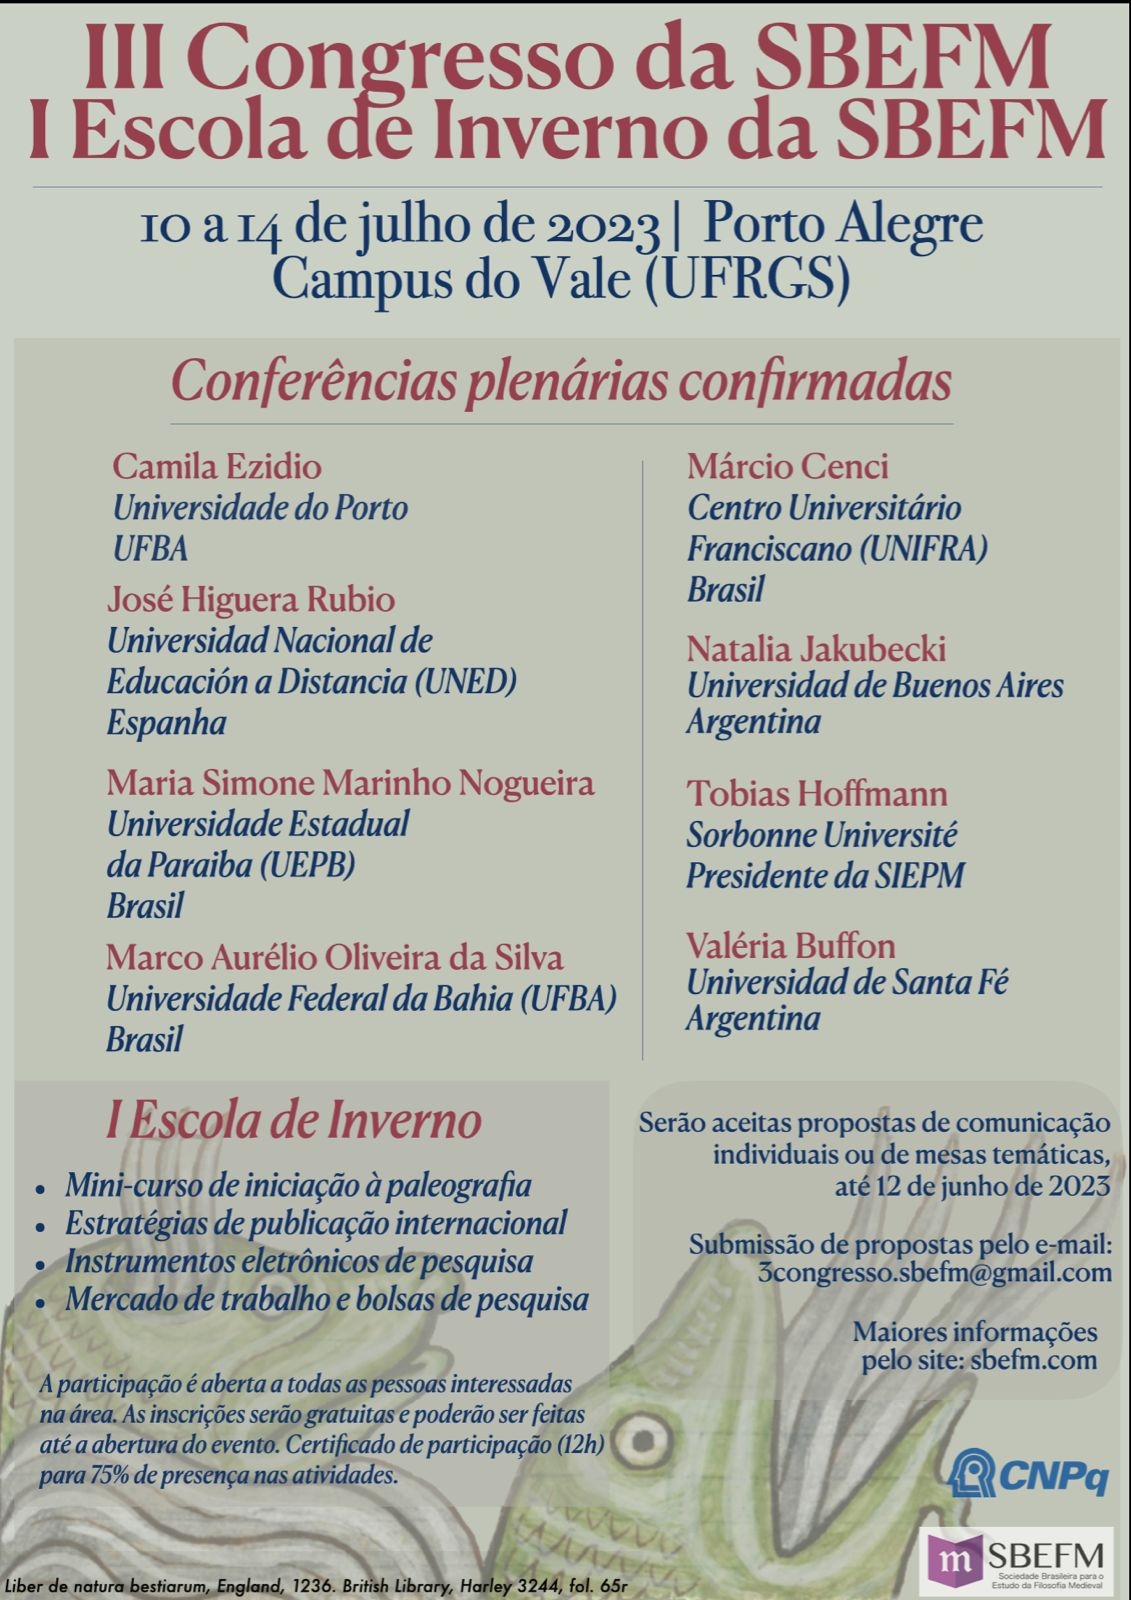
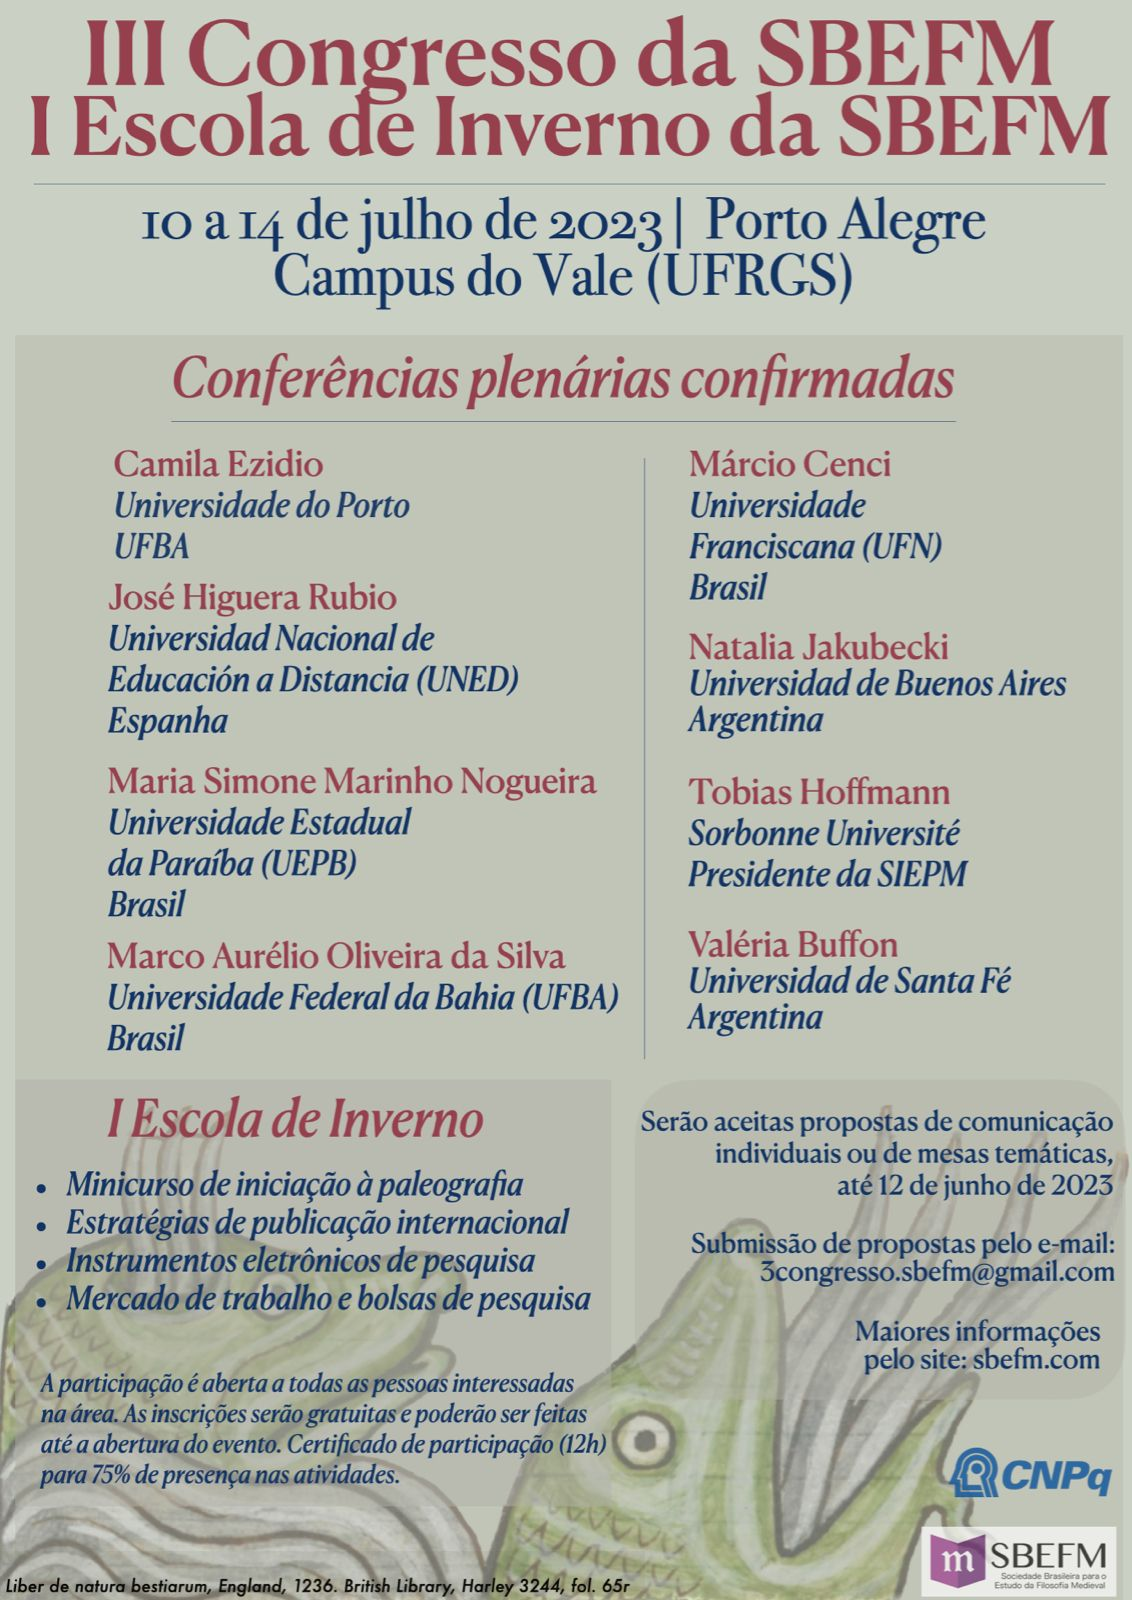
notícia sobre o iii congresso sbefm - arrumando mais erros

diff --git a/_posts/2023-04-02-iii-congresso-sbefm.md b/_posts/2023-04-02-iii-congresso-sbefm.md
@@ -20,7 +20,7 @@ A Comissão organizadora aceitará submissões de comunicações que envolvam te
 #### Conferências plenárias
 - Camila Ezidio – Universidade do Porto – UFBA
 - José Higuera Rubio – UNED, Espanha
-- Márcio Cenci – UNIFRA
+- Márcio Cenci – UFN
 - Marco Aurélio Oliveira da Silva – UFBA
 - Maria Simone Marinho Nogueira –  DFIL/UEPB
 - Natalia Jakubecki – Universidad de Buenos Aires, Argentina
@@ -56,7 +56,7 @@ A Comissão organizadora indicará posteriormente a data para submissão de arti
 
 O atual estágio da pesquisa em história da filosofia medieval parece trazer desafios próprios e exigências de formação bastante específicas. Com o objetivo de discutir o atual perfil internacional exigido de pesquisadoras e pesquisadores da área bem como os novos instrumentos de pesquisa, a SBEFM está organizando a I Escola de Inverno na qual discutiremos os seguintes temas:
 
-- Mini-curso de iniciação à paleografia
+- Minicurso de iniciação à paleografia
 - Estratégias de publicação internacional
 - Instrumentos eletrônicos de pesquisa
 - Mercado de trabalho e bolsas de pesquisa 
